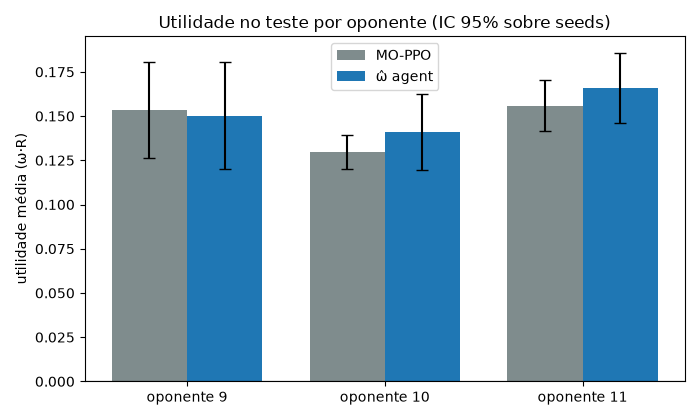
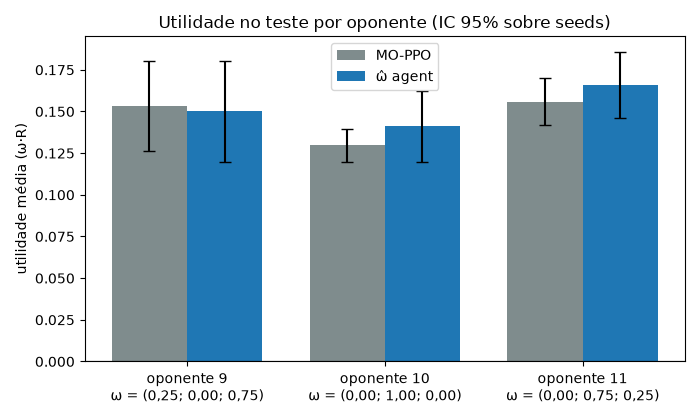
Label test opponents with their omega in the figures and describe them

diff --git a/scripts/plot_results.py b/scripts/plot_results.py
@@ -26,6 +26,16 @@ COLORS = {"mo_ppo": "#7f8c8d", "belief": "#1f77b4"}
 OUTCOMES = ("win_rate", "draw_rate", "loss_rate")
 
 
+def omega_text(w: np.ndarray) -> str:
+    """Omega as '(0,25; 0,00; 0,75)' with decimal commas, for axis labels."""
+    return "(" + "; ".join(f"{x:.2f}".replace(".", ",") for x in w) + ")"
+
+
+def omega_compact(w: np.ndarray) -> str:
+    """Omega as '(0,25;0;0,75)', short enough to fit under narrow heatmap columns."""
+    return "(" + ";".join(f"{x:g}".replace(".", ",") for x in w) + ")"
+
+
 def learning_curves(results: Path, out: Path, window: int = 20) -> None:
     """Mean utility during training, averaged over seeds (band = min/max over seeds)."""
     fig, ax = plt.subplots(figsize=(7, 4.2))
@@ -50,7 +60,7 @@ def learning_curves(results: Path, out: Path, window: int = 20) -> None:
     plt.close(fig)
 
 
-def test_utility_by_opponent(df: pd.DataFrame, out: Path) -> None:
+def test_utility_by_opponent(df: pd.DataFrame, weights: np.ndarray, out: Path) -> None:
     """Mean utility on each test opponent with 95% CI over seeds."""
     stats = summarize(df, by=["agent", "opponent_id"])
     opponents = sorted(stats["opponent_id"].unique())
@@ -62,7 +72,7 @@ def test_utility_by_opponent(df: pd.DataFrame, out: Path) -> None:
         ax.bar(x, sub["mean_utility_mean"], width, yerr=sub["mean_utility_ci95"], capsize=4,
                color=COLORS[agent], label=AGENTS[agent])
     ax.set_xticks(np.arange(len(opponents)))
-    ax.set_xticklabels([f"oponente {k}" for k in opponents])
+    ax.set_xticklabels([f"oponente {k}\nω = {omega_text(weights[k])}" for k in opponents])
     ax.axhline(0, color="black", lw=0.8)
     ax.set_ylabel("utilidade média (ω·R)")
     ax.set_title("Utilidade no teste por oponente (IC 95% sobre seeds)")
@@ -112,7 +122,8 @@ def utility_heatmaps(df: pd.DataFrame, weights: np.ndarray, out: Path) -> None:
         im = ax.imshow(grid.values, cmap=cmap, vmin=lo, vmax=hi, aspect="auto")
         ax.set_title(title)
         ax.set_xticks(range(len(opponents)))
-        ax.set_xticklabels([f"opp {k}" for k in opponents])
+        ax.set_xticklabels([f"opp {k}\n{omega_compact(weights[k])}" for k in opponents],
+                           fontsize=7)
         ax.set_yticks(range(len(labels)))
         ax.set_yticklabels(labels if ax is axes[0] else [""] * len(labels), fontsize=8)
         ax.set_xlabel("oponente de teste")
@@ -163,7 +174,7 @@ def main() -> None:
     eval_df = eval_df[eval_df["agent"].isin(AGENTS)]
 
     learning_curves(args.results, out_dir / "learning_curves.png")
-    test_utility_by_opponent(eval_df, out_dir / "test_utility_by_opponent.png")
+    test_utility_by_opponent(eval_df, tables.weights, out_dir / "test_utility_by_opponent.png")
     outcome_rates(eval_df, out_dir / "test_outcome_rates.png")
     utility_heatmaps(eval_df, tables.weights, out_dir / "utility_heatmaps.png")
     inference_quality(args.results / "phase0_identification.csv",

diff --git a/partial_results/test_opponents.md b/partial_results/test_opponents.md
@@ -1,0 +1,53 @@
+# Oponentes de teste: quem são e em que diferem (`test_opponents.md`)
+
+Os oponentes de teste são os de índice 9, 10 e 11 no grid de 15 pontos do simplex. Cada um é uma política fixa, definida por um vetor de preferência ω. Eles nunca entram no treino.
+
+## Quem são
+
+O vetor ω tem três pesos, na ordem **(vencer; vencer rápido; controle de colunas)**. Os pesos são não negativos e somam 1.
+
+| Oponente | ω (vencer; vencer rápido; colunas) | O que ele valoriza |
+|---|---|---|
+| 9 | (0,25; 0; 0,75) | Sobretudo controle de colunas, com um quarto de peso em vencer |
+| 10 | (0; 1; 0) | Apenas vencer rápido |
+| 11 | (0; 0,75; 0,25) | Sobretudo vencer rápido, com um quarto de peso em colunas |
+
+Cada um pertence a um grupo de comportamento próprio (grupos 9, 10 e 11). Ou seja, nenhum dos três joga exatamente igual a outro oponente do grid, em nenhum tabuleiro, quando o jogo é determinístico (τ = 0).
+
+## Eles variam entre si?
+
+Sim. Com τ = 0,1, a política de cada oponente é uma distribuição sobre colunas. Para medir o quanto duas políticas diferem, usamos a **distância de variação total** entre as duas distribuições, média sobre todas as 134.289 posições não terminais do jogo. A distância vai de 0 (idênticas) a 1 (completamente diferentes).
+
+| Par | Distância |
+|---|---|
+| 9 × 10 | 0,12 |
+| 9 × 11 | 0,12 |
+| 10 × 11 | 0,05 |
+
+Os oponentes 10 e 11 são os mais parecidos entre si, porque ambos valorizam vencer rápido. O 9 é o mais diferente dos dois, porque dá mais peso ao controle de colunas.
+
+Em termos de lances, com τ = 0 a melhor jogada muda em cerca de 9% das posições quando comparamos o oponente 10 com os demais, e cerca de 10% para o 11. Para o 9, a média é de 7,5%.
+
+## Parecidos com oponentes de treino
+
+Como o filtro bayesiano não conhece esses três, é útil saber qual oponente de treino mais se parece com cada um:
+
+| Oponente de teste | Oponente de treino mais parecido | ω do treino | Distância |
+|---|---|---|---|
+| 9 | 8 | (0,25; 0,25; 0,5) | 0,03 |
+| 10 | 12 | (0; 0,5; 0,5) | 0,09 |
+| 11 | 12 | (0; 0,5; 0,5) | 0,05 |
+
+Esse é o motivo de a avaliação no teste ser uma pergunta de generalização. O agente vê oponentes próximos dos de treino, mas não os exatamente iguais.
+
+## Como foi calculado
+
+- Política de cada oponente: softmax(Q_k / τ) sobre as tabelas exatas (`data/q_tables_4x4.npz`), com τ = 0,1.
+- Distância de variação total entre duas políticas, em uma posição: metade da soma dos valores absolutos das diferenças entre as duas distribuições sobre as colunas.
+- Média sobre as 134.289 posições não terminais.
+- Diferença na melhor jogada: fração das posições em que a coluna de maior Q difere entre os dois oponentes (τ = 0).
+
+## Limitações
+
+- A média inclui posições que nenhum jogo de teste visitaria. Ela mede a diferença estrutural das políticas, não a diferença no jogo real.
+- A distância não diz qual dos oponentes é mais forte. Um oponente pode ser diferente e ainda assim ter utilidade parecida para o agente.

diff --git a/partial_results/test_utility_by_opponent.md b/partial_results/test_utility_by_opponent.md
@@ -14,11 +14,13 @@ Utilidade média (ω·R) do MO-PPO (cinza) e do agente ω̂ (azul) contra cada u
 
 ## Valores
 
-| Oponente | MO-PPO | ω̂ agente | Diferença (ω̂ − MO-PPO) |
-|---|---|---|---|
-| 9 | 0,153 ± 0,027 | 0,150 ± 0,030 | −0,003 |
-| 10 | 0,130 ± 0,010 | 0,141 ± 0,021 | +0,012 |
-| 11 | 0,156 ± 0,014 | 0,166 ± 0,020 | +0,010 |
+| Oponente | ω (vencer; vencer rápido; colunas) | MO-PPO | ω̂ agente | Diferença (ω̂ − MO-PPO) |
+|---|---|---|---|---|
+| 9 | (0,25; 0; 0,75) | 0,153 ± 0,027 | 0,150 ± 0,030 | −0,003 |
+| 10 | (0; 1; 0) | 0,130 ± 0,010 | 0,141 ± 0,021 | +0,012 |
+| 11 | (0; 0,75; 0,25) | 0,156 ± 0,014 | 0,166 ± 0,020 | +0,010 |
+
+Quem são esses oponentes, e por que eles diferem, está em [test_opponents.md](test_opponents.md).
 
 Média geral no teste: MO-PPO +0,146 ± 0,014; ω̂ +0,152 ± 0,013.
 

diff --git a/partial_results/utility_heatmaps.md b/partial_results/utility_heatmaps.md
@@ -4,7 +4,7 @@
 
 ## O que mostra
 
-Três mapas de calor com a mesma grade: linhas são os 15 valores do ω próprio do agente (ω = (win, win rápido, controle de colunas)), colunas são os 3 oponentes de teste.
+Três mapas de calor com a mesma grade: linhas são os 15 valores do ω próprio do agente (ω = (vencer, vencer rápido, controle de colunas)), colunas são os 3 oponentes de teste, com o ω de cada um embaixo do nome. O perfil de cada oponente está em [test_opponents.md](test_opponents.md).
 
 1. **MO-PPO:** utilidade média em cada célula.
 2. **ω̂ agente:** utilidade média em cada célula.
